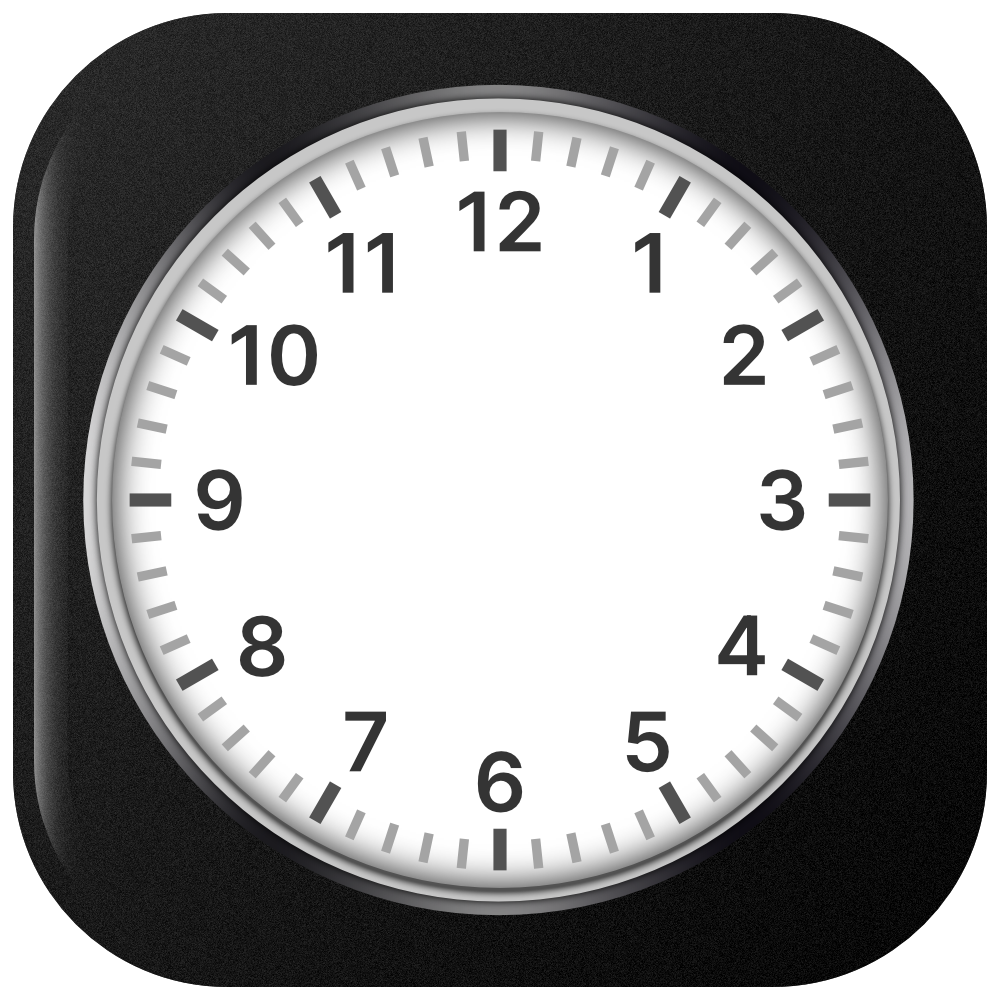
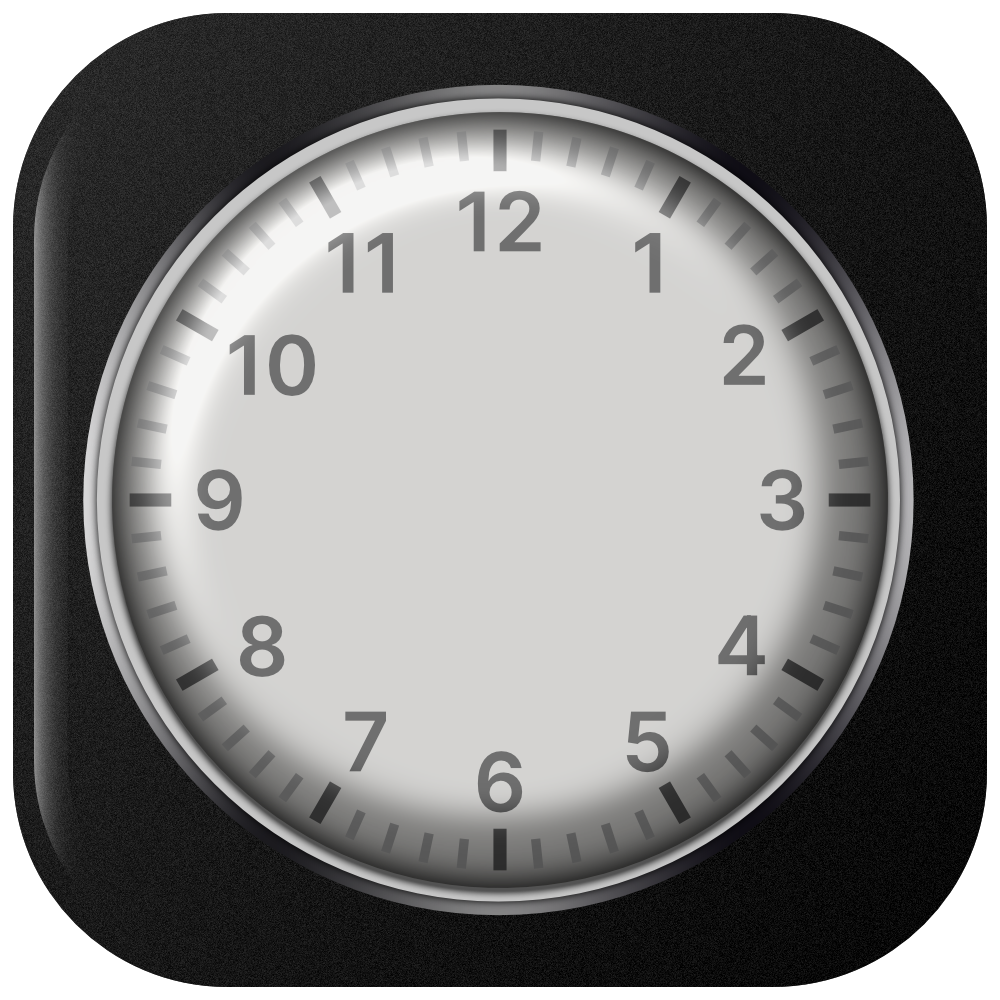
v0

diff --git a/src/app/app.component.scss b/src/app/app.component.scss
@@ -73,41 +73,45 @@ h6 {
 #clockContainer {
   position: relative;
   margin: auto;
-  height: 40vw;
-  width: 40vw;
-  background: url(./../assets/test.png) no-repeat;
+  height: 800px;
+  width: 800px;
+  background: url(./../assets/clock.png) no-repeat;
   background-size: 100%;
+  transform: scale(0.5);
 }
 
 #hour,
 #minute,
 #second {
   position: absolute;
-  background: black;
-  border-radius: 10px;
-  transform-origin: bottom;
+  height: 100%;
+  width: 100%;
+  filter: drop-shadow(10px 12px 5px hsl(0deg 0% 0% / 0.4));
 }
 
 #hour {
-  width: 1.8%;
-  height: 25%;
-  top: 25%;
-  left: 48.85%;
-  opacity: 0.8;
+  background: url(./../assets/hour.png) no-repeat;
+  height: 281px;
+  width: 52px;
+  transform-origin: 50% 77%;
+  top: 22.5%;
+  left: 46.9%;
 }
 
 #minute {
-  width: 1.6%;
-  height: 30%;
-  top: 19%;
-  left: 48.9%;
-  opacity: 0.8;
+  background: url(./../assets/minute.png) no-repeat;
+  height: 305px;
+  width: 52px;
+  transform-origin: 50% 91.5%;
+  top: 14.9%;
+  left: 47%;
 }
 
 #second {
-  width: 1%;
-  height: 40%;
-  top: 9%;
-  left: 49.25%;
-  opacity: 0.8;
+  background: url(./../assets/second.png) no-repeat;
+  height: 350px;
+  width: 30px;
+  transform-origin: 50% 84.5%;
+  top: 12.6%;
+  left: 48.2%;
 }
